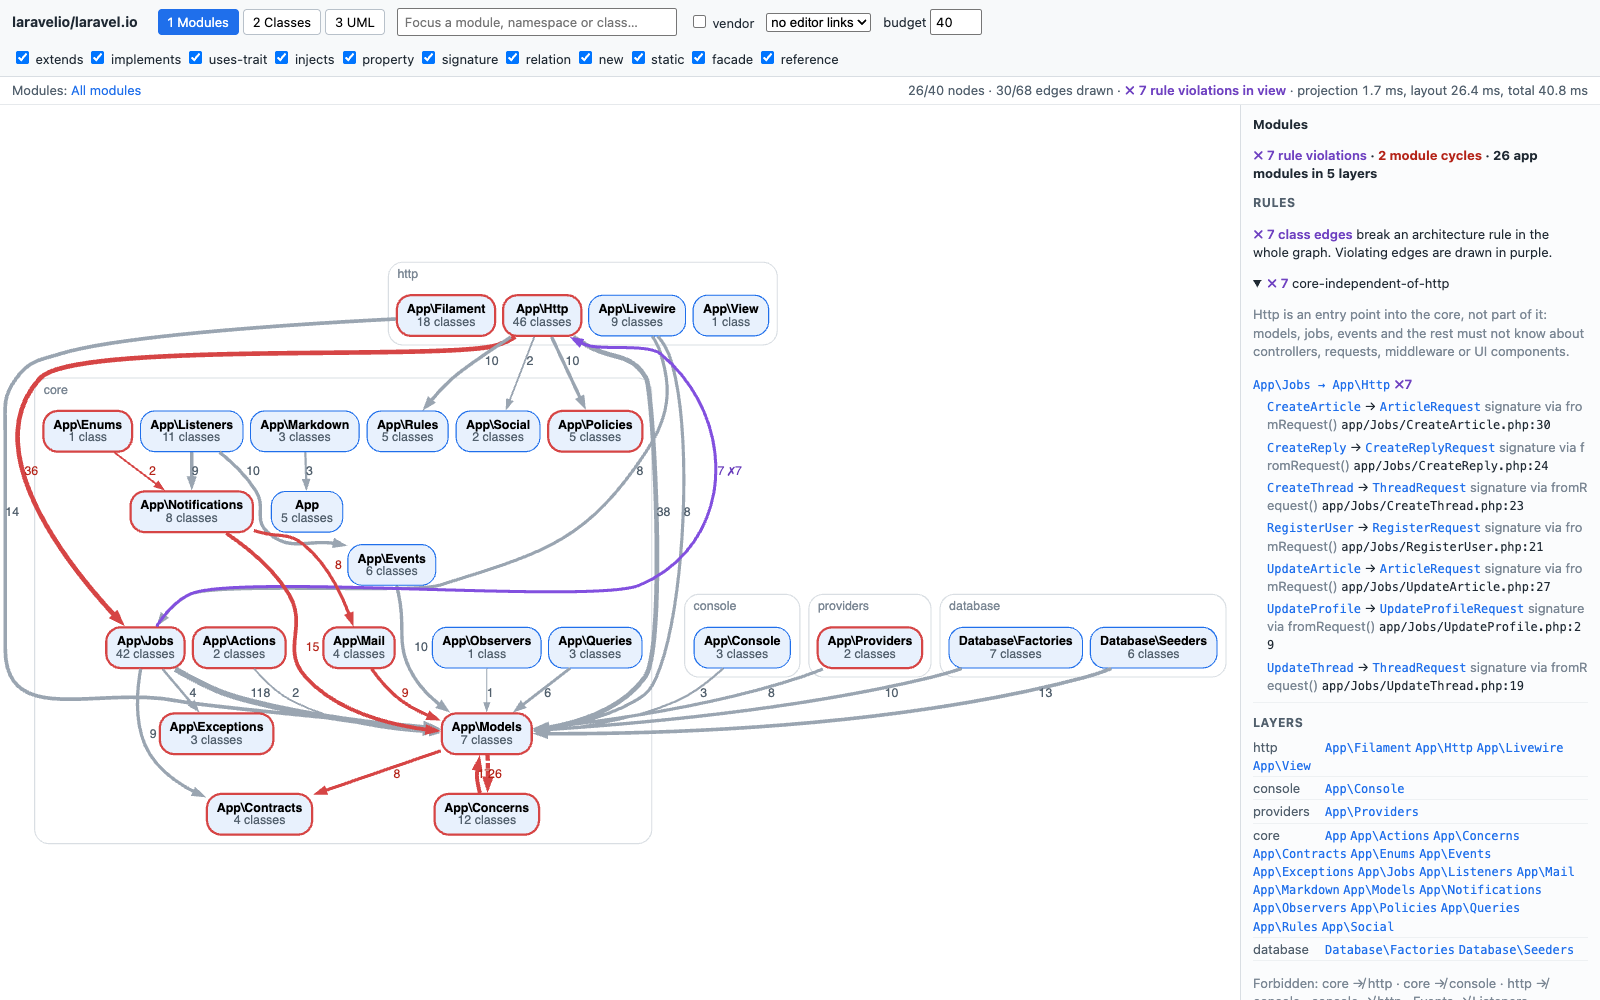
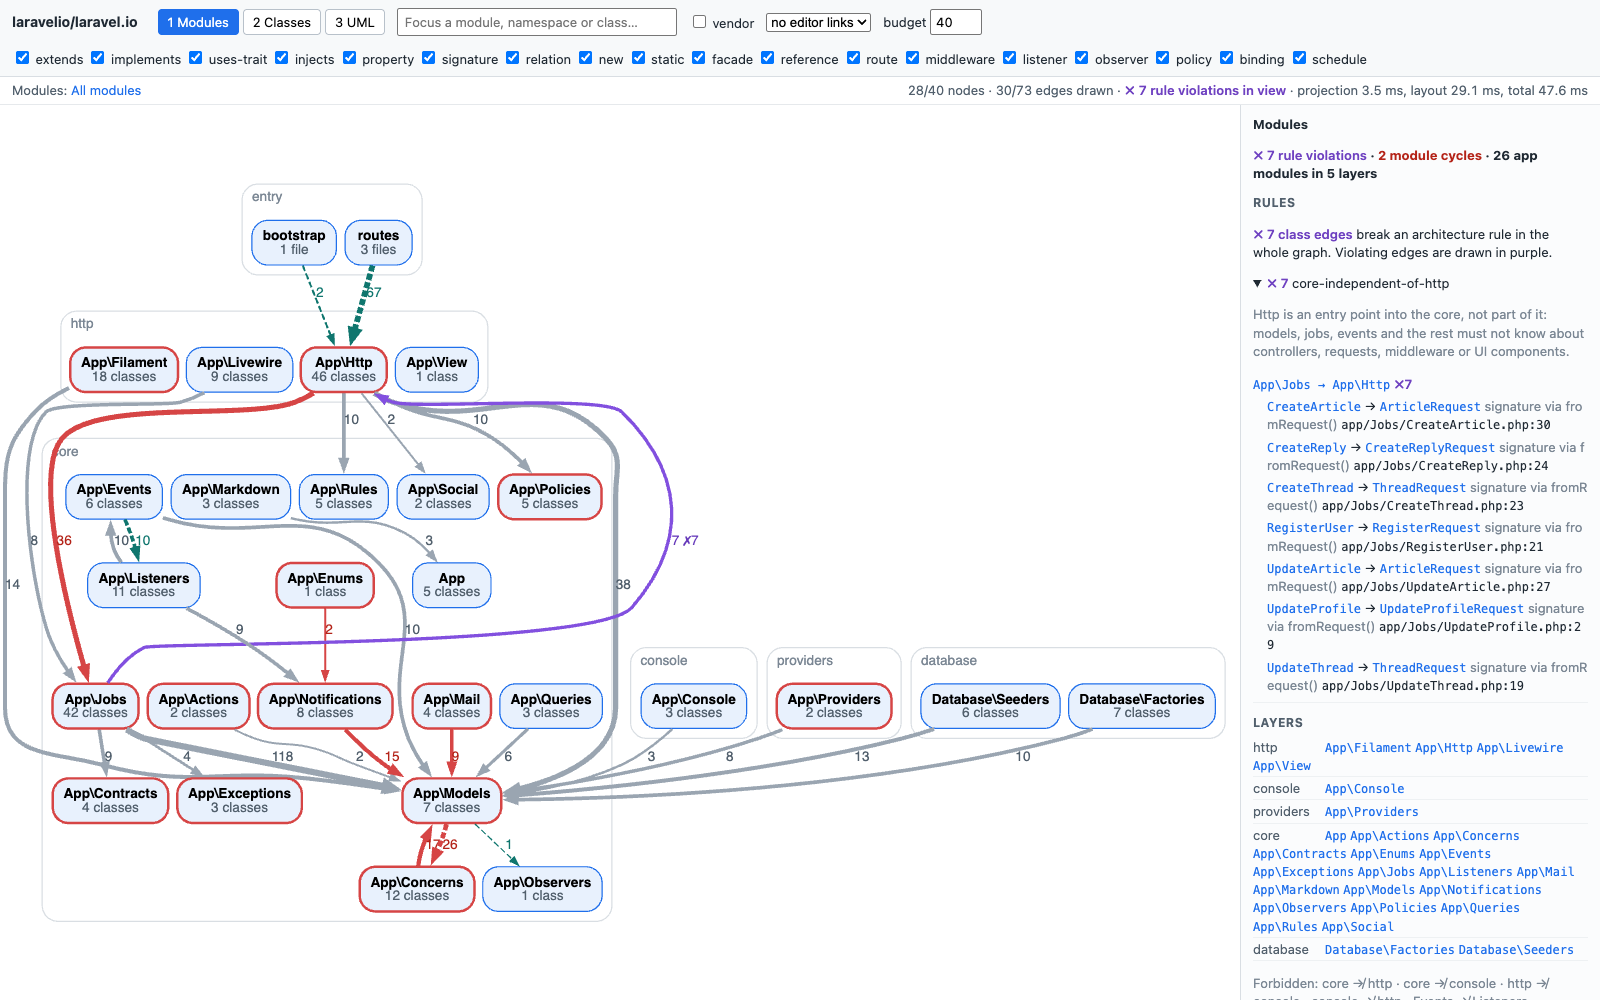
Show routes and wiring in the README screenshots, release 0.6.0
The screenshots are retaken from 0.6.0: the module view now has the entry band with the route files and
bootstrap/app.php above http. Two are new, both in the section on what Laravel wires up: routes/web.php
as a UML box listing its routes, and the edge view from routes to App\Http with a dashed arrow to each
controller. Reading routes and wiring is the release's change, so it moves to 0.6.0.

Changed region(s): [[0.0, 0.186, 0.75, 0.93], [0.5312, 0.031, 0.6875, 0.062], [0.7188, 0.031, 0.8438, 0.062]]

diff --git a/README.md b/README.md
@@ -6,7 +6,7 @@ See how your Laravel or PHP application is actually put together. puml reads you
 modules, classes and dependencies in an interactive diagram you can drill into, and tells you where the
 architecture breaks the conventions a Laravel application is expected to follow.
 
-![The modules of laravel.io, with the rule violations between App\Jobs and App\Http in purple and a module cycle in red](assets/screenshots/modules.png)
+![The modules of laravel.io, with the route files and bootstrap/app.php above them, the rule violations between App\Jobs and App\Http in purple and a module cycle in red](assets/screenshots/modules.png)
 
 - **One command, one file.** `puml-extract` scans a project in well under a second and writes a single
   HTML file. Open it in any browser; nothing to install, no server, no PHP runtime needed.
@@ -25,7 +25,7 @@ Download the binary for your platform from the
 [latest release](https://github.com/kauffinger/puml/releases/latest):
 
 ```sh
-VERSION=v0.5.0
+VERSION=v0.6.0
 TARGET=aarch64-apple-darwin   # x86_64-apple-darwin, x86_64-unknown-linux-musl, aarch64-unknown-linux-musl
 
 curl -fsSL "https://github.com/kauffinger/puml/releases/download/$VERSION/puml-extract-$VERSION-$TARGET.tar.gz" | tar -xz
@@ -219,7 +219,7 @@ An excerpt, for a pull request on `fixtures/blog` that moves a job from the requ
 and renames a listener:
 
 ```
-puml diff: fixture/blog, base HEAD (1ac3ffa) -> head HEAD (1ac3ffa with uncommitted changes), puml-extract 0.5.0 (mago 1.54.0)
+puml diff: fixture/blog, base HEAD (1ac3ffa) -> head HEAD (1ac3ffa with uncommitted changes), puml-extract 0.6.0 (mago 1.54.0)
 classes: 1 added, 3 modified, 1 renamed, 0 removed; class edges: 4 added, 2 removed; 5 changed files declare classes, 1 other file changed
 architecture: 1 new rule violation, 1 rule violation fixed, 1 module cycle grown, 1 removed class still in use
 
@@ -271,7 +271,7 @@ jobs:
       - uses: actions/checkout@v7
         with:
           fetch-depth: 0
-      - uses: kauffinger/puml@v0.5.0
+      - uses: kauffinger/puml@v0.6.0
         with:
           strict: true
 ```
@@ -373,10 +373,15 @@ from the place that registers them to the class that handles them:
 | `binding` | an abstract to the concrete the container builds for it |
 | `schedule` | `routes/console.php` or the console kernel to the command or job it schedules |
 
+![routes/web.php of laravel.io as a UML box listing its routes, with a dashed arrow to each controller](assets/screenshots/routes.png)
+
 Route files and `bootstrap/app.php` are nodes of their own, in an `entry` layer above `http`. Wiring is
 not a dependency: it never breaks a rule, never closes a cycle and does not count towards fan-out. `show`
 lists a class's routes, listeners, observers, policy and bindings with their `file:line`, and
-`show path/to/app routes/web.php` lists every route a file registers.
+`show path/to/app routes/web.php` lists every route a file registers. Open the arrow from `routes` to
+`App\Http` to see which controller each route file reaches, and how often:
+
+![The edge view routes to App\Http: web.php and api.php with a dashed route arrow to each controller](assets/screenshots/routes-edge.png)
 
 A registration puml cannot read for sure, such as a route inside `if (app()->isLocal())` or a
 `Route::feeds()` macro, is listed under "unresolved" on its own line instead of being guessed.

diff --git a/CONTRIBUTING.md b/CONTRIBUTING.md
@@ -242,6 +242,8 @@ shot modules 'level=1'
 shot http    'level=2&focus=App%5CHttp'
 shot thread  'level=3&focus=App%5CModels%5CThread'
 shot edge    'level=1&from=App%5CJobs&to=App%5CHttp'
+shot routes  'level=3&focus=routes%2Fweb.php'
+shot routes-edge 'level=1&from=routes&to=App%5CHttp'
 ```
 
 ## Releasing
@@ -253,8 +255,8 @@ To release, bump `version` in `extractor/Cargo.toml` and the `version` input's d
 commit, and push a matching tag:
 
 ```sh
-git tag v0.5.0
-git push origin v0.5.0
+git tag v0.6.0
+git push origin v0.6.0
 ```
 
 `.github/workflows/release.yml` fails if the tag differs from the crate version or from the action's
